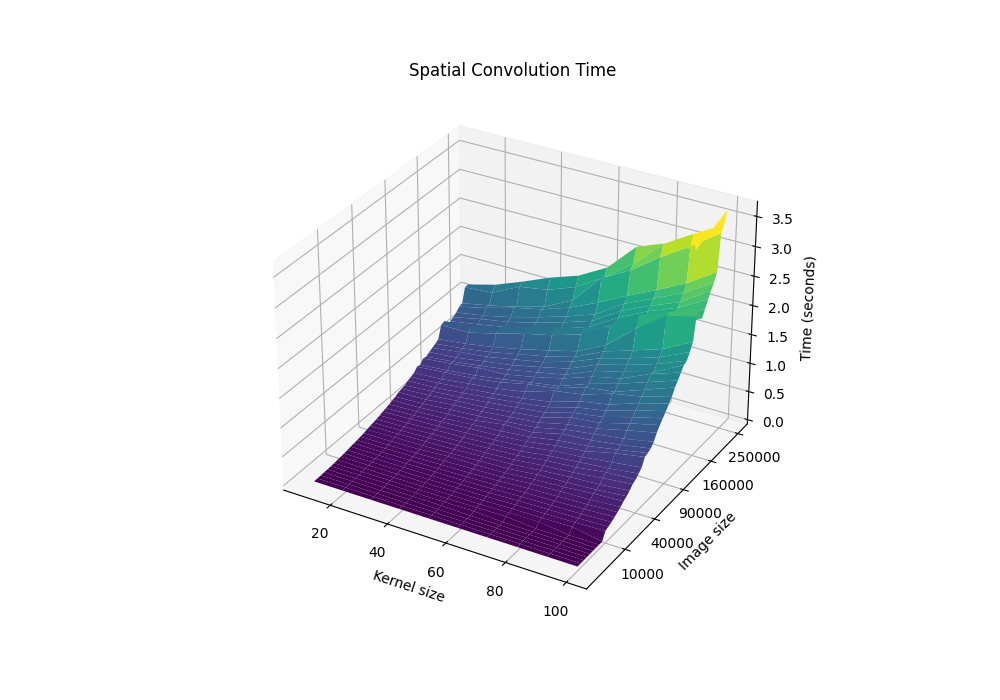
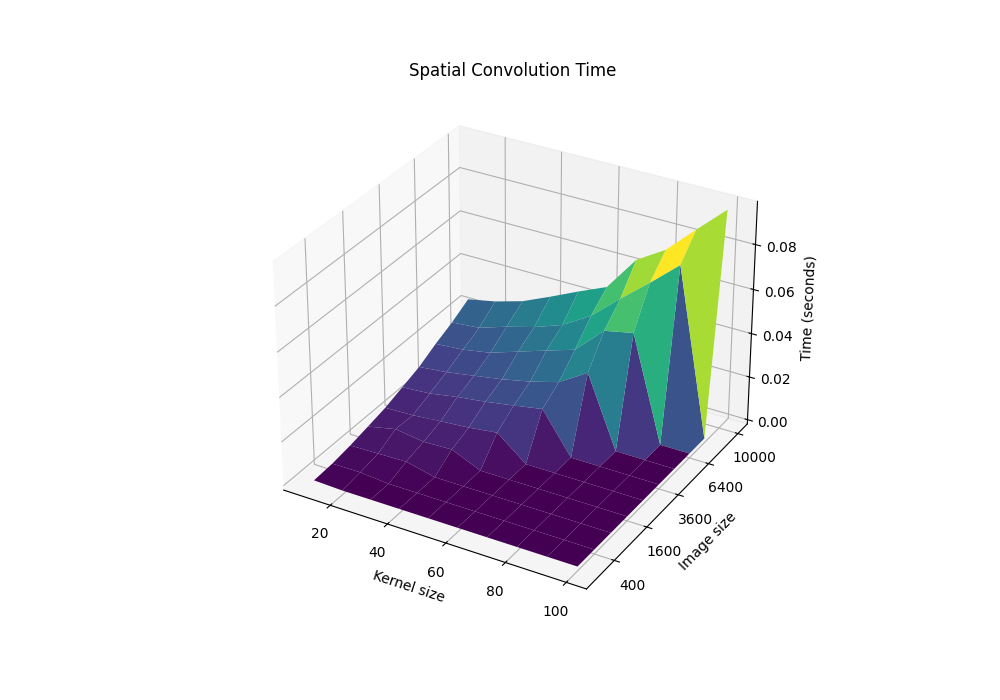
add plot and  results

diff --git a/dip3_py/graphs.py b/dip3_py/graphs.py
@@ -1,0 +1,176 @@
+import sys
+from enum import Enum, auto
+from typing import Dict
+import matplotlib.pyplot as plt
+import numpy as np
+import cv2
+
+
+# Z axis: time (idx)
+# Y axis: number of pixels in input image
+# X axis: filter (kernel) size
+
+import time
+
+
+def circ_shift(image: np.ndarray, dx: int, dy: int) -> np.ndarray:
+    start = time.time()
+    """Perform a circular shift in (dx, dy) direction."""
+    # TO DO !!!
+    """Perform a circular shift in (dx, dy) direction."""
+    print('image shape: ', image.shape[0])
+    h = image.shape[0]
+    w = image.shape[0]
+
+    shifted = np.zeros_like(image)
+    for i in range(h):
+        for j in range(w):
+            new_i = (i + dy) % h
+            new_j = (j + dx) % w
+            shifted[new_i, new_j] = image[i, j]
+    end = time.time()
+    elapsed_time = end-start
+
+    return np.array(shifted, copy=True)
+
+
+
+def frequency_convolution(image: np.ndarray, kernel: np.ndarray) -> np.ndarray:
+    start = time.time()
+    """Performs convolution by multiplication in frequency domain."""
+    # TO DO !!!
+    kernel_h, kernel_w = kernel.shape
+    #image_w, image_h = image.shape
+    #print('kernel: ', kernel)
+    print(-2 % 5)
+    # in exercise slide: "Copy the kernel into a larger matrix"
+    padded_kernel = np.zeros_like(image, dtype=np.float32)
+    dx = -int(kernel_w / 2)
+    dy = -int(kernel_h / 2)
+    #dx = -image_w // 2
+    #dy = -image_h // 2
+    
+    padded_kernel[0 : kernel_h, 0:kernel_w] = kernel
+
+    print('len padded: ',len(padded_kernel))
+    print('dx: ', dx)
+    print('kernel_w: ', kernel_w)
+    shifted_kernel = circ_shift(padded_kernel, dx, dy)
+    #print('shifted_kernel: ', shifted_kernel)
+
+    #Fourier Transform: from spatial to frequency domain
+    dft_image = cv2.dft(image, flags=cv2.DFT_COMPLEX_OUTPUT)
+    dft_kernel = cv2.dft(shifted_kernel, flags=cv2.DFT_COMPLEX_OUTPUT)
+
+    # convolution
+    dft_result = cv2.mulSpectrums(dft_image, dft_kernel, 0)
+
+    #Inverse Fourier
+    result = cv2.idft(dft_result, flags=cv2.DFT_SCALE | cv2.DFT_REAL_OUTPUT)
+    end = time.time()
+    elapsed_time = end-start
+    # return np.array(result, copy=True)
+    return np.clip(result, 0, 255) , elapsed_time
+
+
+
+def separable_filter(image: np.ndarray, kernel: np.ndarray) -> np.ndarray:
+    start = time.time()
+    """Convolution in spatial domain by separable filters."""
+    # TO DO !!!
+    # filtering in x
+    horizontal = spatial_convolution(image, kernel)
+
+    #filtering in y
+    kernel_transposed = kernel.T
+    result = spatial_convolution(horizontal, kernel_transposed)
+    end = time.time()
+    elapsed_time = end-start
+    return np.array(result, copy=True) , elapsed_time
+
+
+def sat_filter(image: np.ndarray, size: int) -> np.ndarray:
+    """Convolution in spatial domain using integral images."""
+    # TO DO !!!
+    return np.array(image, copy=True)
+
+
+
+def spatial_convolution(src: np.ndarray, kernel: np.ndarray) -> np.ndarray:
+    start = time.time()
+    """Convolution in spatial domain."""
+    # Hopefully already DONE, copy from last homework
+    # TO DO !!
+    flipkernel = np.flipud(np.fliplr(kernel))
+
+    src_h, src_w = src.shape
+    kernel_h, kernel_w = kernel.shape
+    padding_height = kernel_h // 2
+    padding_width = kernel_w // 2
+
+    padded_image = np.pad(src, ((padding_height,), (padding_width,)), "reflect")
+    result = np.zeros_like(src, dtype=float)
+
+    for y in range(src_h):
+        for x in range(src_w):
+            region = padded_image[y:y + kernel_h, x:x + kernel_w]
+            result[y, x] = np.sum(region * flipkernel)
+    # return result
+    end = time.time()
+    elapsed_time = end-start
+    return np.array(result, copy=True) , elapsed_time
+
+
+# Small test
+size = 5
+image = np.ones((size,size))
+
+kernel_size = 2
+kernel = np.ones((kernel_size, kernel_size))
+
+
+# Loop example
+filter_size = np.arange(1,10,1)
+image_size = np.arange(1,10,1)
+#print(image_size)
+time_spatial = []
+
+for k in filter_size:
+    for j in image_size:
+        print('filter: ', k)
+        print('image: ', j)
+        image = np.ones((j,j))
+        num_pixels = image_size**2
+        kernel = np.ones((k, k))
+        freq_conv_spatial, elapsed_time_spatial = spatial_convolution(image, kernel)
+        time_spatial.append(elapsed_time_spatial)
+        
+time_spatial = np.array(time_spatial)
+
+fig = plt.figure()
+ax = plt.axes(projection='3d')
+
+
+ax.plot_trisurf(filter_size, image_size, time_spatial)
+ax.set_title('Time Data for Spatial Convolution')
+ax.set_xlabel('Filter Size')
+ax.set_ylabel('Number of pixels in input image')
+ax.view_init(-120, 80)
+plt.show()
+
+print('spatial time: ',elapsed_time_spatial)
+
+
+
+
+
+freq_conv_seperable, elapsed_time_seperable = spatial_convolution(image, kernel)
+print('seperable time: ',elapsed_time_seperable)
+
+
+
+
+freq_conv, elapsed_time_freq = frequency_convolution(image, kernel)
+print('freq time: ',elapsed_time_freq)
+
+

diff --git a/dip3_py/plotter.py b/dip3_py/plotter.py
@@ -8,7 +8,7 @@ from mpl_toolkits.mplot3d import Axes3D
 # =============================
 # Parameters
 # =============================
-image_sizes = np.arange(10, 501, 10)    # 10,20,...,500
+image_sizes = np.arange(10, 101, 10)    # 10,20,...,500
 kernel_sizes = np.arange(10, 101, 10)     # 3,5,7,...,99   (not larger than smallest image)
 
 # Time-matrices (image_size × kernel_size)
@@ -32,6 +32,7 @@ for i, imsize in enumerate(image_sizes):
 
         # Generate random floating-point kernel
         kernel = np.random.rand(ksize, ksize).astype(np.float32)
+        kernel_for_seperable = np.random.rand(ksize).reshape(1, -1).T.astype(np.float32)
 
         # ------------- spatial convolution -------------
         start = time.time()
